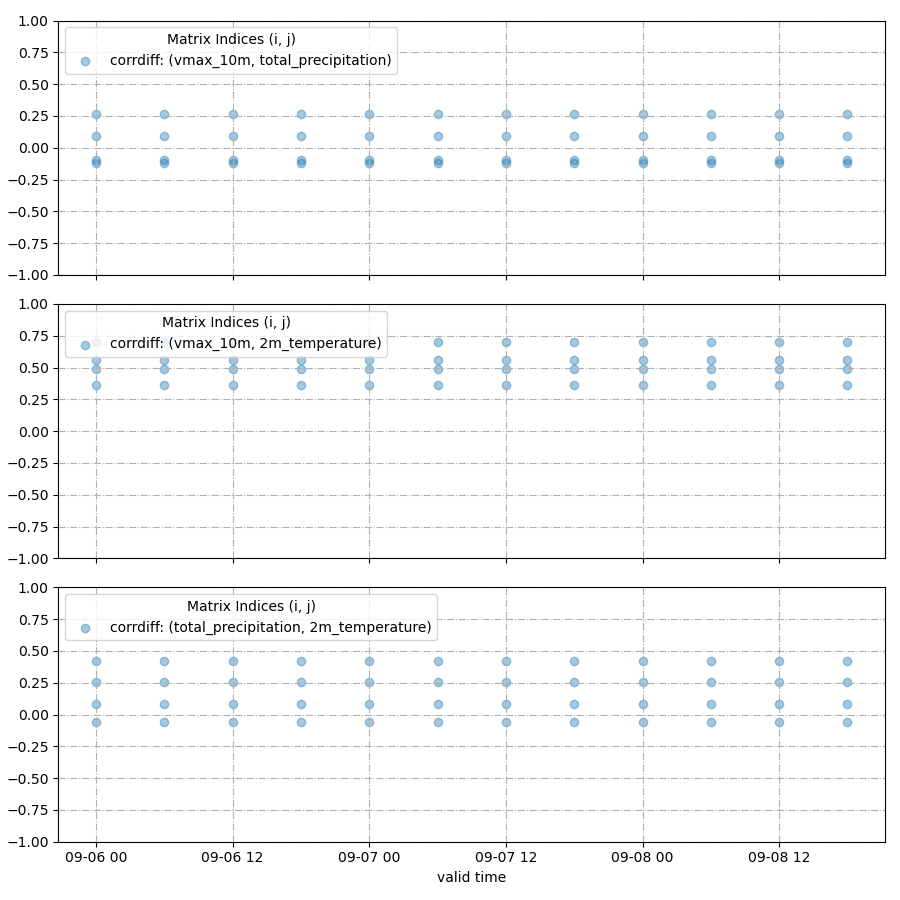
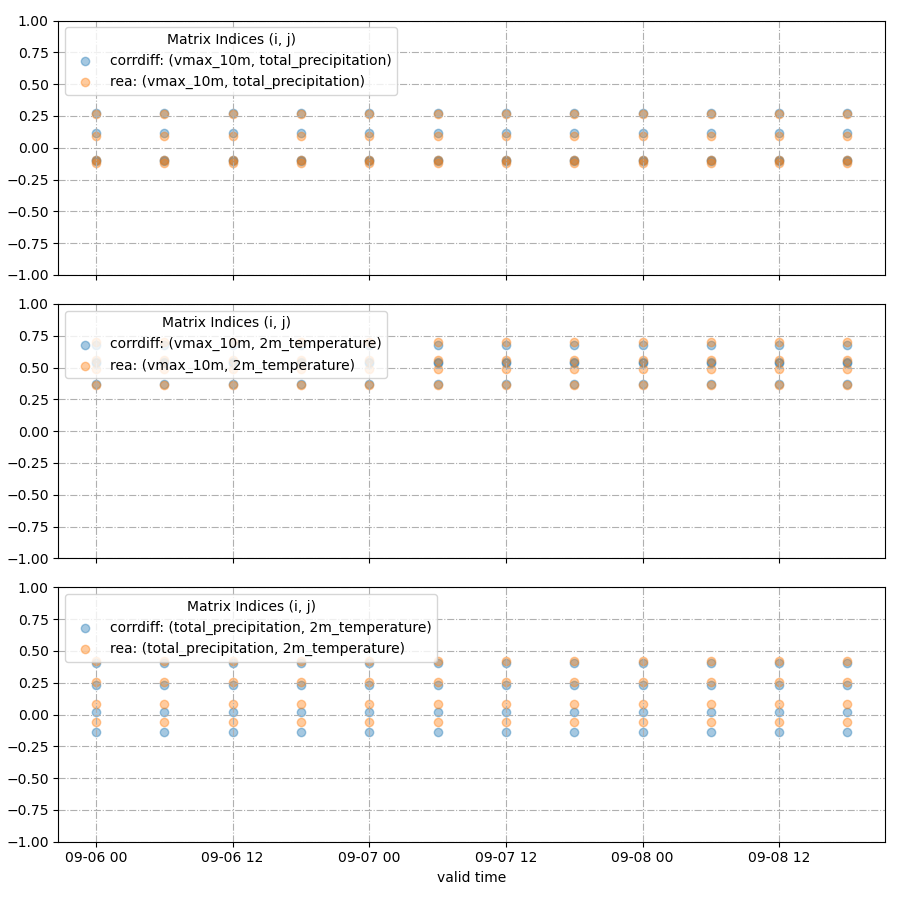
amend correlation map

diff --git a/pace/utils/plot_utils/correlation_map.py b/pace/utils/plot_utils/correlation_map.py
@@ -3,11 +3,12 @@ import os
 import numpy as np
 from pathlib import Path
 import matplotlib.pyplot as plt
+from mpl_toolkits.axes_grid1 import make_axes_locatable
 from typing import List, Dict, Tuple, Optional
 import seaborn as sns
 import xarray as xr
 
-def plot_corr_time_series(
+def plot_map(
         model_ds=None,
         ref_ds=None,
         model_name=None,
@@ -16,9 +17,7 @@ def plot_corr_time_series(
         coords=None,
     ):
 
-    fig, axs = plt.subplots(ncols=1, nrows=3, figsize=(6,9), sharex=True, sharey=True)
-    
-    fig.suptitle(f'corr({model_name}) - corr({ref_name})')
+    fig, axs = plt.subplots(ncols=3, nrows=3, figsize=(9,9), sharex=True, sharey=True)
     
     lats = coords["lat"]
     lons = coords["lon"]
@@ -33,10 +32,7 @@ def plot_corr_time_series(
     
         
     model_data = model_ds['correlation_map'].values
-    if ref_ds == None:
-        ref_data = np.zeros_like(model_data)
-    else:
-        ref_data = ref_ds['correlation_map'].values 
+    ref_data = ref_ds['correlation_map'].values 
     
     _, c, _, _ = model_data.shape
     rows, cols = np.triu_indices(c, k=1)
@@ -46,16 +42,67 @@ def plot_corr_time_series(
     # print(model_tri_data.shape)
     
     v, h, w = model_tri_data.shape
+
+    # fig.suptitle(f'corr({model_name}) - corr({ref_name})')
+    # axs[0, 0].set_title(model_name)
+    # axs[0, 1].set_title(ref_name)
+    # axs[0, 2].set_title(model_name, '-', ref_name)
     
+    # for i in range(v):
+    #     axs[i, 0].set_title(f'{model_ds.var_1.isel(var_1=rows[i]).values}\n{model_ds.var_2.isel(var_2=cols[i]).values}')
+    #     im = axs[i, 0].pcolormesh(
+    #         Lon,
+    #         Lat,
+    #         model_tri_data[i],
+    #         cmap='coolwarm',
+    #         vmin=-1,
+    #         vmax=1,
+    #     )
+    #     axs[i, 1].set_title(f'{model_ds.var_1.isel(var_1=rows[i]).values}\n{model_ds.var_2.isel(var_2=cols[i]).values}')
+    #     im = axs[i, 1].pcolormesh(
+    #         Lon,
+    #         Lat,
+    #         ref_tri_data[i],
+    #         cmap='coolwarm',
+    #         vmin=-1,
+    #         vmax=1,
+    #     )
+    #     axs[i, 2].set_title(f'{model_ds.var_1.isel(var_1=rows[i]).values}\n{model_ds.var_2.isel(var_2=cols[i]).values}')
+    #     im = axs[i, 2].pcolormesh(
+    #         Lon,
+    #         Lat,
+    #         (model_tri_data[i]-ref_tri_data[i]),
+    #         cmap='coolwarm',
+    #         vmin=-1,
+    #         vmax=1,
+    #     )
+        # plt.colorbar(im, ax=axs[i, 2])
+        
+    # Set the titles for the first row only
+    axs[0, 0].set_title(model_name)
+    axs[0, 1].set_title(ref_name)
+    axs[0, 2].set_title(f"{model_name}-{ref_name}")
+
+    # Now, loop through all rows to set the variable titles and plot the data
     for i in range(v):
-        axs[i].set_title(f'{model_ds.var_1.isel(var_1=rows[i]).values}\n{model_ds.var_2.isel(var_2=cols[i]).values}')
-        im = axs[i].pcolormesh(
-            Lon,
-            Lat,
-            (model_tri_data[i]-ref_tri_data[i])/(h*w),
-            # model_data[i, i]
-        )
-        plt.colorbar(im, ax=axs[i])
+        new_title_row = f'{model_ds.var_1.isel(var_1=rows[i]).values}\n{model_ds.var_2.isel(var_2=cols[i]).values}'
+
+        # For the first row, append the variable info to the existing titles
+        if i == 0:
+            axs[i, 0].set_title(f'{axs[i, 0].get_title()}\n{new_title_row}')
+            axs[i, 1].set_title(f'{axs[i, 1].get_title()}\n{new_title_row}')
+            axs[i, 2].set_title(f'{axs[i, 2].get_title()}\n{new_title_row}')
+        
+        # For all other rows, just set the variable title (no model/ref name)
+        else:
+            axs[i, 0].set_title(new_title_row)
+            axs[i, 1].set_title(new_title_row)
+            axs[i, 2].set_title(new_title_row)
+
+        # Plotting code remains the same
+        im = axs[i, 0].pcolormesh(Lon, Lat, model_tri_data[i], cmap='coolwarm', vmin=-1, vmax=1)
+        im = axs[i, 1].pcolormesh(Lon, Lat, ref_tri_data[i], cmap='coolwarm', vmin=-1, vmax=1)
+        im = axs[i, 2].pcolormesh(Lon, Lat, (model_tri_data[i] - ref_tri_data[i]), cmap='coolwarm', vmin=-1, vmax=1)
   
     plt.tight_layout()
     # plt.savefig(os.path.join(plots_dir, f'correlation_map_{model_name}.png'))

diff --git a/pace/utils/parsers/netcdf_groups.py b/pace/utils/parsers/netcdf_groups.py
@@ -7,9 +7,9 @@ import xarray as xr
 from datetime import timedelta
 
 # GROUP_NAMES = ["truth", "prediction", "input"]
-GROUP_NAMES = ["truth"]
+# GROUP_NAMES = ["prediction"]
 
-def parse_file(file_path: Path):
+def parse_file(file_path: Path, group: str):
     """
     Parses a single NetCDF file with groups.
     Returns a list of tuples:
@@ -30,19 +30,19 @@ def parse_file(file_path: Path):
         return results
 
     # For each group, append tuples
-    for group in GROUP_NAMES:
-        opener_kwargs = {"engine": "netcdf4", "group": group}
-        try:
-            with xr.open_dataset(file_path, **opener_kwargs) as ds_group:
-                for bt in base_times:
-                    results.append((file_path, bt, [lead_time], opener_kwargs))
-        except Exception as e:
-            print(e)
-            continue
+    # for group in GROUP_NAMES:
+    opener_kwargs = {"engine": "netcdf4", "group": group}
+    try:
+        with xr.open_dataset(file_path, **opener_kwargs) as ds_group:
+            for bt in base_times:
+                results.append((file_path, bt, [lead_time], opener_kwargs))
+    except Exception as e:
+        print(e)
+        # continue
     
     return results
 
-def parse_directory_groups(base_dir, start=None, end=None):
+def parse_directory_groups(base_dir, start=None, end=None, group="prediction"):
     """
     Walks a directory tree and returns a list of all NetCDF files
     successfully parsed. Each entry is (file_path, base_time, lead_times, opener_kwargs).
@@ -53,7 +53,7 @@ def parse_directory_groups(base_dir, start=None, end=None):
             continue
 
         path = Path(base_dir) / file
-        parsed = parse_file(path)
+        parsed = parse_file(path, group=group)
         if parsed is not None:
             results.extend(parsed)
                 

diff --git a/pace/metrics/correlation_map.py b/pace/metrics/correlation_map.py
@@ -69,13 +69,13 @@ class CorrelationMap(nn.Module):
                 if tensor.ndim == 2:
                     tensor = tensor.unsqueeze(0)
                 elif tensor.ndim == 4:
-                ############################################# this
+                ############################################# this, the [0] index chooses ensemble member
                     tensor = tensor[0, [0]]
                 
-                processed_tensors.append(tensor)
+                processed_tensors.append(standardize(tensor))
                 variable_names.append(name)
                     
-        data = torch.stack(processed_tensors, dim=0).contiguous()
+        data = torch.stack(processed_tensors, dim=1).contiguous()
         c, n, h, w = data.shape
         
         # for di in data:
@@ -245,10 +245,10 @@ class CorrelationMap(nn.Module):
 
             # The full denominator
             denominator_sq = torch.einsum('chw,dhw->cdhw', var_x_term, var_y_term)
-            denominator = torch.sqrt(denominator_sq + 1e-6)
+            denominator = torch.sqrt(denominator_sq + 1e-4)
 
             # Final correlation map
-            correlation_map = numerator / (denominator + 1e-6)
+            correlation_map = numerator / (denominator + 1e-4)
 
             
             print(correlation_map.shape, correlation_map.min(), correlation_map.max())

diff --git a/pace/utils/dataset.py b/pace/utils/dataset.py
@@ -267,8 +267,12 @@ class UnifiedDataset(torch.utils.data.Dataset):
         # Selecting correct parser
         if ("graphcast" in self.name) or ("era" in self.name):
             candidate_files = parse_directory(self.path, self.start, self.end)
-        elif self.name == "corrdiff":
-            candidate_files = parse_directory_groups(self.path, self.start, self.end)
+        elif ("corrdiff" in self.name) or ("rea" in self.name):
+            if "corrdiff" in self.name:
+                group = "prediction"
+            elif "rea" in self.name:
+                group = "truth"
+            candidate_files = parse_directory_groups(self.path, self.start, self.end, group=group)
 
         # File filtering based on valid range
         self.files = []

diff --git a/pace/postprocess.py b/pace/postprocess.py
@@ -184,7 +184,10 @@ def main():
             
             from utils.plot_utils import correlation_map
             
-            correlation_map.plot_corr_time_series(
+            print(model_ds)
+            print(ref_ds)
+            
+            correlation_map.plot_map(
                 model_ds=model_ds,
                 ref_ds=ref_ds,
                 model_name=model_name,
